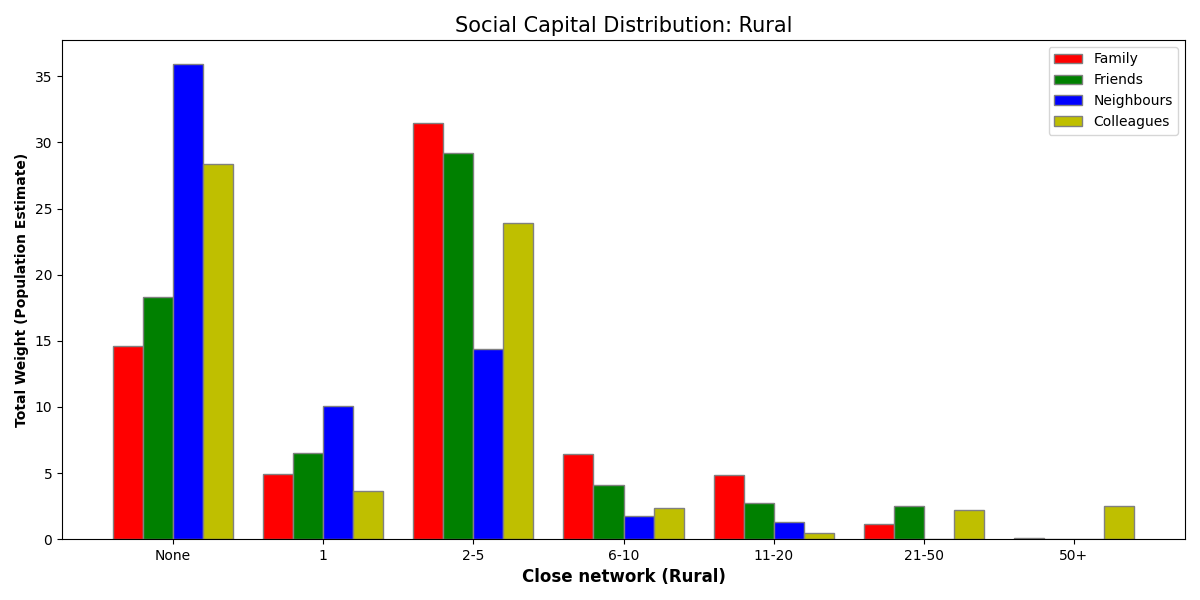
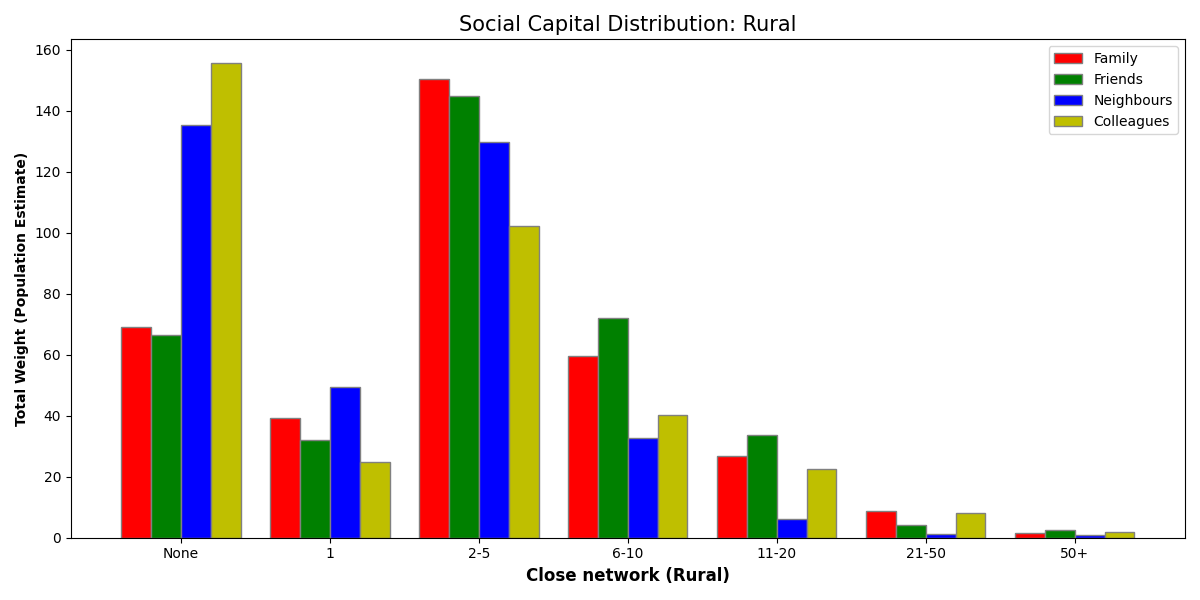
recomposition dde la variable insee_tuu

diff --git a/Code/graph/weak_strong_ties.py b/Code/graph/weak_strong_ties.py
@@ -8,15 +8,15 @@ capsoc = pd.read_csv(file)
 
 # 2. Définition des masques et de l'ordre souhaité
 masks = {
-    "Rural": capsoc['living_place'] == 1,
-    "Small Town": (capsoc['living_place'] >= 2) & (capsoc['living_place'] <= 3),
-    "Mid Town": capsoc['living_place'] == 4,
-    "Large City": (capsoc['living_place'] >= 5) & (capsoc['living_place'] <= 6),
+    "Rural": capsoc['living_place'] == 0,
+    "Small Town": (capsoc['living_place'] >= 1) & (capsoc['living_place'] <= 3),
+    "Mid Town": (capsoc['living_place'] >= 4) & (capsoc['living_place'] <= 6),
     "Metropolis": capsoc['living_place'] >= 7
 }
 
+
 # Ordre spécifique demandé
-location_order = ["Large City", "Metropolis", "Mid Town", "Small Town", "Rural"]
+location_order = ["Metropolis", "Mid Town", "Small Town", "Rural"]
 
 mapping_fin_job = {1:'Close family', 2: 'Distant family', 3: 'Close friends',
                    4: 'Neighbors', 5: 'Colleagues', 6: 'Someone else',

diff --git a/Code/graph/Generating_graphs_knows.py b/Code/graph/Generating_graphs_knows.py
@@ -7,12 +7,12 @@ file = 'Data/cleaned_data_no_na.csv'
 capsoc = pd.read_csv(file)
 
 masks = {
-    "Rural": capsoc['living_place'] == 1,
-    "Small Town": (capsoc['living_place'] >= 2) & (capsoc['living_place'] <= 3),
-    "Mid Town": capsoc['living_place'] == 4,
-    "Large City": (capsoc['living_place'] >= 5) & (capsoc['living_place'] <= 6),
+    "Rural": capsoc['living_place'] == 0,
+    "Small Town": (capsoc['living_place'] >= 1) & (capsoc['living_place'] <= 3),
+    "Mid Town": (capsoc['living_place'] >= 4) & (capsoc['living_place'] <= 6),
     "Metropolis": capsoc['living_place'] >= 7
 }
+
 
 # Liste des variables à analyser
 vars_to_plot = ['knows_fam', 'knows_friends', 'knows_neighbors', 'knows_colleagues']

diff --git a/Code/graph/Generating_graphs_close.py b/Code/graph/Generating_graphs_close.py
@@ -9,7 +9,7 @@ capsoc = pd.read_csv(file)
 masks = {
     "Rural": capsoc['living_place'] == 0,
     "Small Town": (capsoc['living_place'] >= 1) & (capsoc['living_place'] <= 3),
-    "Mid Town": capsoc['living_place'] >= 4 & (capsoc['living_place'] <= 6),
+    "Mid Town": (capsoc['living_place'] >= 4) & (capsoc['living_place'] <= 6),
     "Metropolis": capsoc['living_place'] >= 7
 }
 
